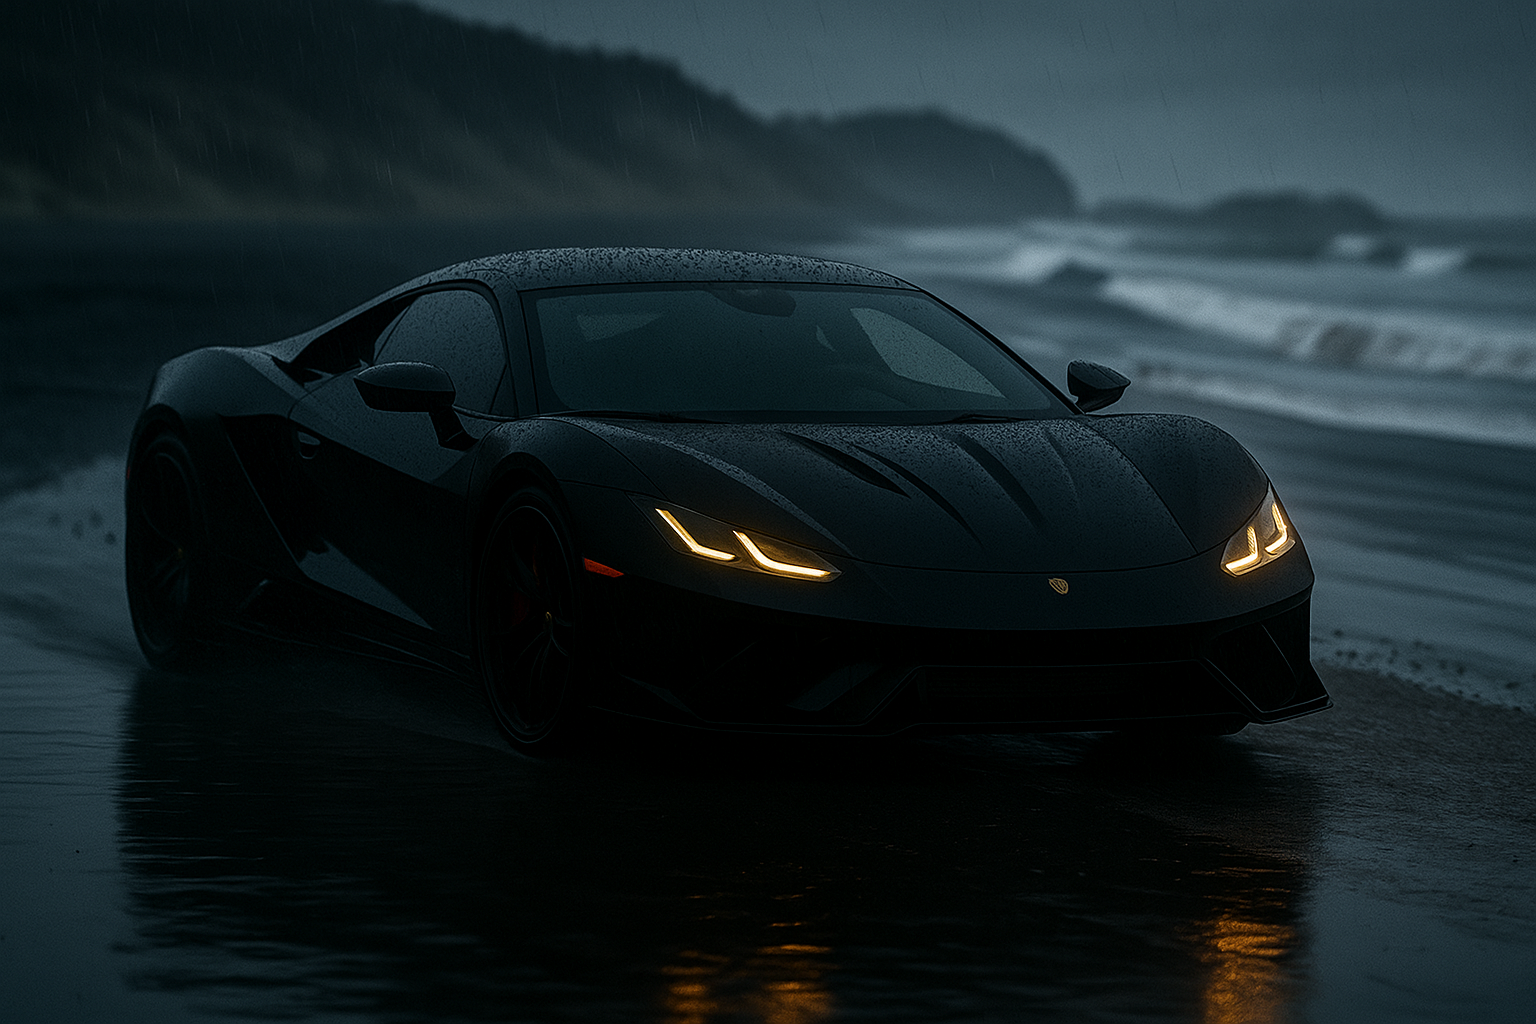
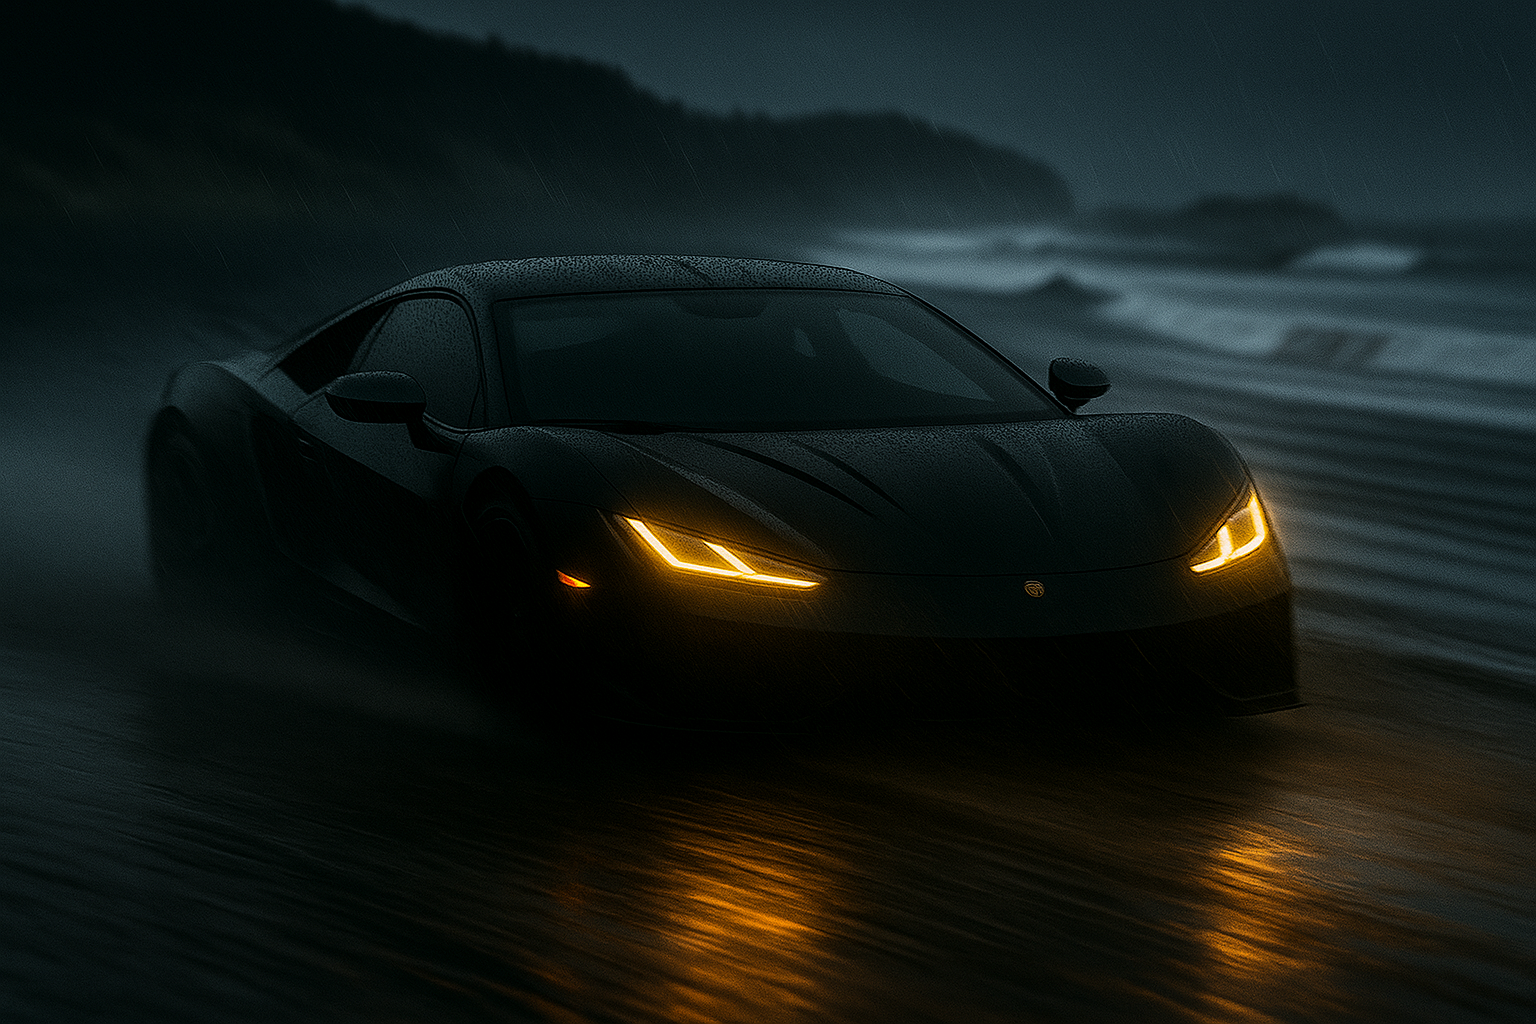
Add footer and enhance image quality.

diff --git a/index.html b/index.html
@@ -9,13 +9,12 @@
    </head>
 
    <body>
-      <section class="hero-section">
+      <section class="hero-section" id="home">
          <img
-            src="./assets/Supercar on Wet Beach2.jpeg"
+            src="./assets/rear view of super car - home 2.png"
             alt="car"
             class="background-img"
          />
-         <div class="overlay"></div>
          <header>
             <h2>VELTORA | Precision in Motion</h2>
             <a href="#features" class="cta-button"> Discover the Machine </a>
@@ -56,11 +55,11 @@
          </div>
       </section>
 
-      <section class="gallery-section">
+      <section class="gallery-section" id="gallery">
          <h2>The Art of Performance</h2>
          <div class="gallery-grid">
             <img
-               src="./assets/side view of super car 3.png"
+               src="./assets/side view of super car 6.png"
                alt="Side view of super car"
             />
             <img
@@ -72,7 +71,7 @@
                alt="rear view of super car"
             />
             <img
-               src="./assets/super car in motion 2.png"
+               src="./assets/super car in motion.png"
                alt="super car in motion"
             />
          </div>
@@ -92,5 +91,15 @@
             <button type="submit">Request Callback</button>
          </form>
       </section>
+      <footer class="site-footer">
+         <div class="footer-content">
+            <p>&copy; 2025 VELTORA. ALL rights reserved</p>
+            <ul class="footer-links">
+               <li><a href="#features">Features</a></li>
+               <li><a href="#gallery">Gallery</a></li>
+               <li><a href="#home">Home</a></li>
+            </ul>
+         </div>
+      </footer>
    </body>
 </html>

diff --git a/style.css b/style.css
@@ -37,16 +37,6 @@ html {
    z-index: 1; /* Ensure the image is behind the overlay */
 }
 
-.overlay {
-   position: absolute;
-   top: 0;
-   left: 0;
-   width: 100%;
-   height: 100%;
-   background-color: rgba(0, 0, 0, 0.6);
-   z-index: 2; /* Ensure the overlay is above the image */
-}
-
 header {
    position: absolute;
    width: 100%;
@@ -174,6 +164,8 @@ header {
    box-shadow: 0 6px rgba(255, 87, 51, 0.4);
 }
 
+/* Contact Section */
+
 .contact-section {
    background: #111;
    color: #fff;
@@ -230,4 +222,37 @@ header {
 .contact-form button:hover {
    background: #e64a19;
    transform: scale(1.05);
+}
+
+/* Footer Section */
+.site-footer {
+   background: #0d0d0d;
+   color: #bbb;
+   padding: 2rem 1rem;
+   text-align: center;
+   font-size: 0.9rem;
+}
+
+.footer-content {
+   max-width: 800px;
+   margin: 0 auto;
+}
+
+.footer-links {
+   list-style: none;
+   display: flex;
+   justify-content: center;
+   gap: 2rem;
+   margin-top: 1rem;
+   padding: 0;
+}
+
+.footer-links li a {
+   color: #bbb;
+   text-decoration: none;
+   transition: color 0.3s ease;
+}
+
+.footer-links li a:hover {
+   color: #ff5733;
 }
